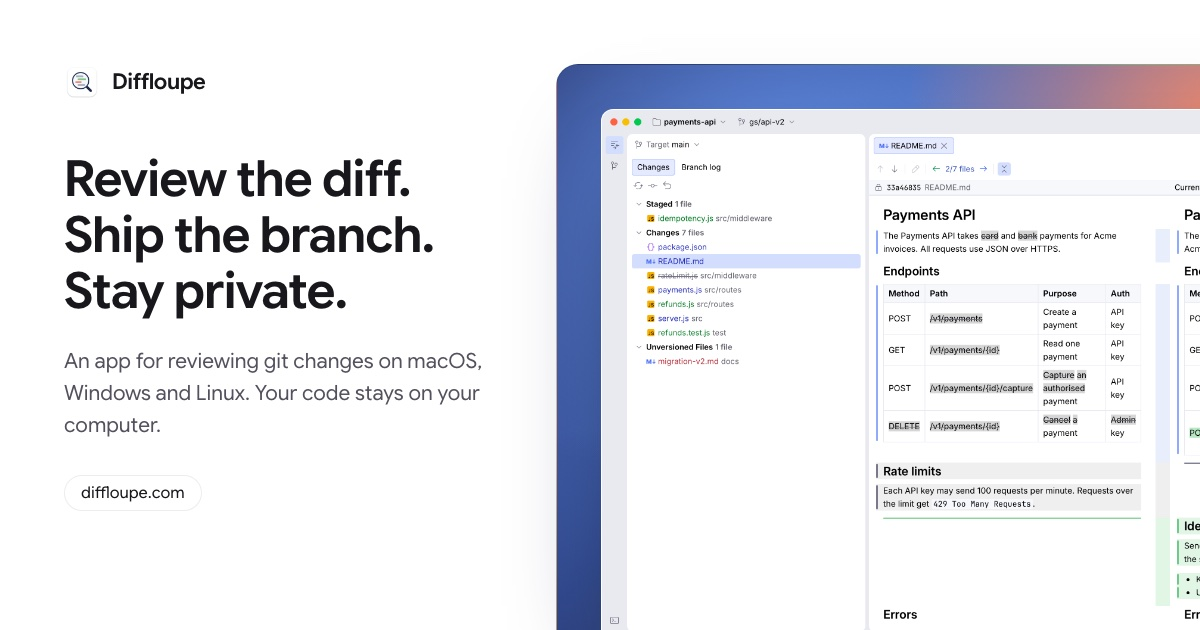
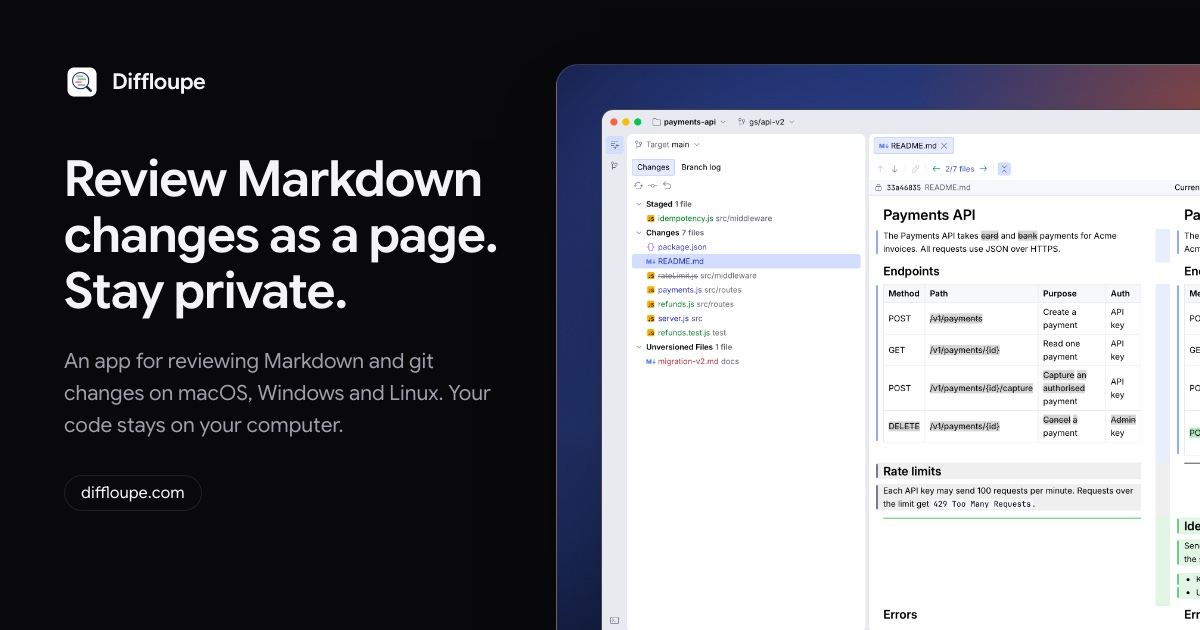
Update public website, OG preview, and tests for rendered Markdown review

diff --git a/website/e2e/design.ts b/website/e2e/design.ts
@@ -10,8 +10,9 @@ export const designDir = resolve(
   process.env.DIFFLOUPE_DESIGN_DIR ?? join(root, "../diffloupe-design"),
 );
 const design = join(designDir, "website");
-export const designPresent = existsSync(join(design, "assets.json"));
-const assets: Record<string, string> = designPresent
+export const designPresent =
+  existsSync(join(design, "canvas.json")) || existsSync(join(design, "assets.json"));
+const assets: Record<string, string> = existsSync(join(design, "assets.json"))
   ? JSON.parse(readFileSync(join(design, "assets.json"), "utf8"))
   : {};
 const diffs = join(root, "website/target/design-diff");
@@ -44,6 +45,7 @@ export async function openBoard(page: Page, board: string, theme: "light" | "dar
       });
     }
     if (path === "site.css") return route.fulfill({ path: join(design, "site.css") });
+    if (path.startsWith("assets/")) return route.fulfill({ path: join(design, path) });
     const id = path.replace("files/", "");
     const file = assets[id];
     return file ? route.fulfill({ path: join(designDir, file) }) : route.fulfill({ status: 404 });

diff --git a/website/src/lib/seo.ts b/website/src/lib/seo.ts
@@ -22,7 +22,7 @@ export function appData(site: URL, release: Release): Record<string, unknown> {
     "@type": "SoftwareApplication",
     name: "Diffloupe",
     description:
-      "An app for reviewing git changes on macOS, Windows and Linux: side-by-side diffs, the branch log, rendered Markdown and a 3-pane merge window.",
+      "An app for reviewing Markdown and git changes on macOS, Windows and Linux: rendered Markdown diffs, side-by-side code diffs, the branch log and a 3-pane merge window.",
     url: site.href,
     image: new URL("/og.jpg", site).href,
     applicationCategory: "DeveloperApplication",

diff --git a/website/e2e/words.spec.ts b/website/e2e/words.spec.ts
@@ -25,5 +25,8 @@ for (const path of [...pages.map((target) => target.path), missing.path]) {
     expect(words).not.toMatch(
       /offline|network call|\bgit remotes?\b|(?<!pull )\brequests?\b|\bservers?\b/i,
     );
+    if (path === "/") {
+      expect(words).toMatch(/Review Markdown changes as a page/);
+    }
   });
 }

diff --git a/website/scripts/make_og.py b/website/scripts/make_og.py
@@ -33,8 +33,8 @@ html, body {{ margin: 0; width: {WIDTH}px; height: {HEIGHT}px; overflow: hidden;
 <div class="site" data-theme="light">
 <div class="og-text">
 <span class="brand"><img src="{ICON.as_uri()}" alt=""><span>Diffloupe</span></span>
-<h1 class="h1-hero">Review the diff. Ship the branch. Stay private.</h1>
-<p class="lead">An app for reviewing git changes on macOS, Windows and Linux. Your code stays on your computer.</p>
+<h1 class="h1-hero">Review Markdown changes as a page. Stay private.</h1>
+<p class="lead">An app for reviewing Markdown and git changes on macOS, Windows and Linux. Your code stays on your computer.</p>
 <span class="chip">diffloupe.com</span>
 </div>
 <div class="scene og-scene"><div class="window"><img src="{SHOT.as_uri()}" alt=""></div></div>
